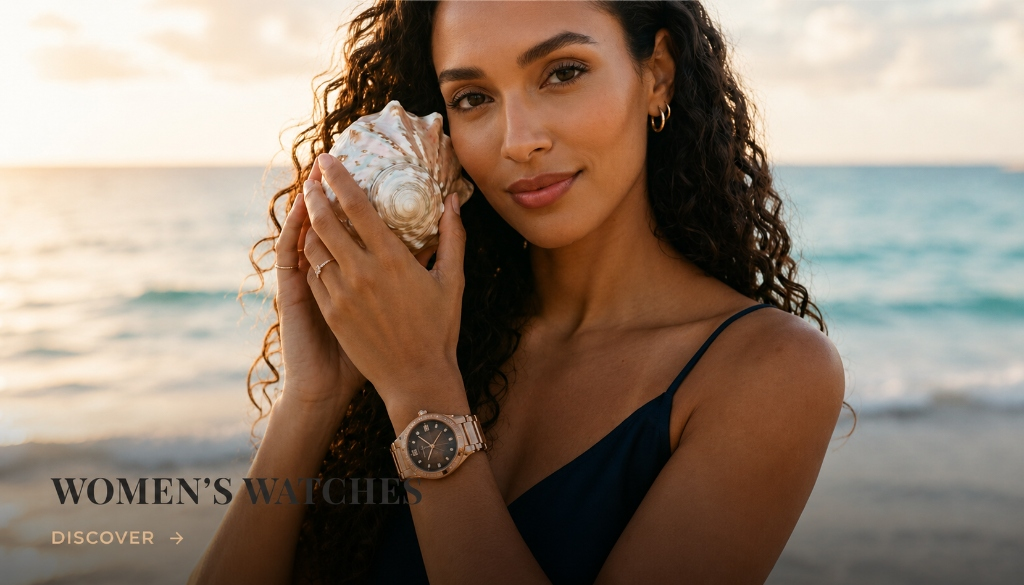
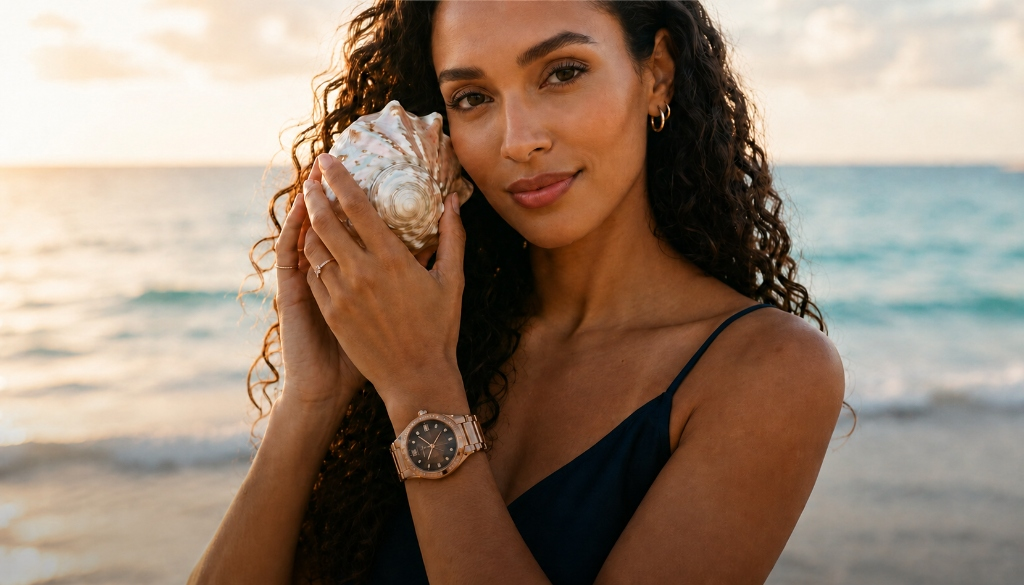
Updated homepage UI and styling

diff --git a/src/pages/Home.jsx b/src/pages/Home.jsx
@@ -113,53 +113,61 @@ export default function Home({ onPageChange }) {
         </div>
       </section>
 
-      {/* Men & Women Category Split Banner (Full width edge-to-edge, half-half split, no spacing/borders) */}
-      <section className="grid grid-cols-1 md:grid-cols-2 gap-0 w-full overflow-hidden border-b border-white/5 mt-16">
-        {/* Women's Column */}
-        <div 
-          onClick={() => onPageChange('shop', { gender: 'women' })}
-          className="group relative h-[700px] flex flex-col justify-end p-8 sm:p-12 overflow-hidden cursor-pointer bg-luxury-gray"
-        >
-          <div className="absolute inset-0 z-0">
-            <div 
-              className="absolute inset-0 bg-cover bg-[position:center_12%] group-hover:scale-105 transition-transform duration-[2000ms]" 
-              style={{ backgroundImage: "url('/assets/women_watches.jpg')" }} 
-            />
-            <div className="absolute inset-0 bg-gradient-to-t from-white/70 via-white/10 to-transparent" />
-          </div>
-          
-          <div className="relative z-10 space-y-2 text-left">
-            <h3 className="font-serif text-3xl sm:text-4xl font-bold text-luxury-text tracking-wide uppercase">Women's watches</h3>
-            <button 
-              onClick={(e) => { e.stopPropagation(); onPageChange('shop', { gender: 'women' }); }}
-              className="text-luxury-text text-xs font-bold tracking-widest uppercase border-b-2 border-luxury-text pb-1 hover:text-luxury-gold hover:border-luxury-gold transition duration-300 w-fit inline-block"
-            >
-              Discover
-            </button>
-          </div>
+      {/* Men & Women Category Split Banner — Full-width, edge-to-edge, no spacing */}
+      <section className="w-full overflow-hidden">
+        {/* Section Header */}
+        <div className="text-center py-12 bg-white">
+          <p className="text-[10px] text-luxury-gold-dark font-bold tracking-widest uppercase mb-3">CURATED FOR YOU</p>
+          <h2 className="text-3xl sm:text-4xl font-serif font-bold text-luxury-text tracking-wide uppercase">Shop By Gender</h2>
+          <div className="w-10 h-[1px] bg-luxury-text/40 mx-auto mt-4" />
         </div>
 
-        {/* Men's Column */}
-        <div 
-          onClick={() => onPageChange('shop', { gender: 'men' })}
-          className="group relative h-[700px] flex flex-col justify-end p-8 sm:p-12 overflow-hidden cursor-pointer bg-luxury-gray"
-        >
-          <div className="absolute inset-0 z-0">
-            <div 
-              className="absolute inset-0 bg-cover bg-[position:center_12%] group-hover:scale-105 transition-transform duration-[2000ms]" 
-              style={{ backgroundImage: "url('/assets/men_watches.jpg')" }} 
+        {/* Split Image Panels — zero gap, edge-to-edge */}
+        <div className="grid grid-cols-1 md:grid-cols-2">
+          {/* Men's Column */}
+          <div
+            onClick={() => onPageChange('shop', { gender: 'men' })}
+            className="dark-panel group relative h-[580px] overflow-hidden cursor-pointer"
+          >
+            <div
+              className="absolute inset-0 bg-cover bg-center group-hover:scale-105 transition-transform duration-[2000ms]"
+              style={{ backgroundImage: "url('/assets/men_watches_beach.jpg')" }}
             />
-            <div className="absolute inset-0 bg-gradient-to-t from-white/70 via-white/10 to-transparent" />
+            <div className="absolute inset-0 bg-gradient-to-t from-black/65 via-black/10 to-transparent" />
+            <div className="absolute bottom-0 left-0 p-8 sm:p-12 space-y-3 z-10">
+              <h3 className="font-serif text-3xl sm:text-4xl font-bold text-white tracking-wide uppercase drop-shadow-md">
+                Men's Watches
+              </h3>
+              <button
+                onClick={(e) => { e.stopPropagation(); onPageChange('shop', { gender: 'men' }); }}
+                className="flex items-center gap-2 text-white text-xs font-bold tracking-widest uppercase border-b border-white/60 pb-1 hover:border-white hover:gap-3 transition-all duration-300 w-fit"
+              >
+                Discover <ArrowRight size={12} />
+              </button>
+            </div>
           </div>
-          
-          <div className="relative z-10 space-y-2 text-left">
-            <h3 className="font-serif text-3xl sm:text-4xl font-bold text-luxury-text tracking-wide uppercase">Men's watches</h3>
-            <button 
-              onClick={(e) => { e.stopPropagation(); onPageChange('shop', { gender: 'men' }); }}
-              className="text-luxury-text text-xs font-bold tracking-widest uppercase border-b-2 border-luxury-text pb-1 hover:text-luxury-gold hover:border-luxury-gold transition duration-300 w-fit inline-block"
-            >
-              Discover
-            </button>
+
+          {/* Women's Column */}
+          <div
+            onClick={() => onPageChange('shop', { gender: 'women' })}
+            className="dark-panel group relative h-[580px] overflow-hidden cursor-pointer"
+          >
+            <div
+              className="absolute inset-0 bg-cover bg-center group-hover:scale-105 transition-transform duration-[2000ms]"
+              style={{ backgroundImage: "url('/assets/women_watches_beach.jpg')" }}
+            />
+            <div className="absolute inset-0 bg-gradient-to-t from-black/65 via-black/10 to-transparent" />
+            <div className="absolute bottom-0 left-0 p-8 sm:p-12 space-y-3 z-10">
+              <h3 className="font-serif text-3xl sm:text-4xl font-bold text-white tracking-wide uppercase drop-shadow-md">
+                Women's Watches
+              </h3>
+              <button
+                onClick={(e) => { e.stopPropagation(); onPageChange('shop', { gender: 'women' }); }}
+                className="flex items-center gap-2 text-white text-xs font-bold tracking-widest uppercase border-b border-white/60 pb-1 hover:border-white hover:gap-3 transition-all duration-300 w-fit"
+              >
+                Discover <ArrowRight size={12} />
+              </button>
+            </div>
           </div>
         </div>
       </section>
@@ -204,7 +212,7 @@ export default function Home({ onPageChange }) {
                 </button>
               </div>
             </div>
-          </div>
+          ))}
         </div>
       </section>
 

diff --git a/src/index.css b/src/index.css
@@ -116,19 +116,19 @@ html {
    ========================================================================== */
 
 /* Overrides for text-white and text-gray classes to adapt them to light layouts */
-.text-white:not(button *, .bg-luxury-red *, .bg-red-700 *, .bg-red-800 *, .bg-\[\#1c1a17\] *, footer *, .bg-gradient-to-r *, .text-emerald-400 *, .font-mono *) {
+.text-white:not(button *, .bg-luxury-red *, .bg-red-700 *, .bg-red-800 *, .bg-\[\#1c1a17\] *, footer *, .bg-gradient-to-r *, .text-emerald-400 *, .font-mono *, .dark-panel *) {
   color: var(--color-luxury-text) !important;
 }
 
-.text-gray-300:not(footer *, .bg-\[\#1c1a17\] *, button *, .bg-luxury-red *, .bg-red-700 *, .bg-red-800 *, .bg-black\/30 *, .bg-black\/35 *, .bg-gradient-to-r *) {
+.text-gray-300:not(footer *, .bg-\[\#1c1a17\] *, button *, .bg-luxury-red *, .bg-red-700 *, .bg-red-800 *, .bg-black\/30 *, .bg-black\/35 *, .bg-gradient-to-r *, .dark-panel *) {
   color: var(--color-luxury-muted) !important;
 }
 
-.text-gray-400:not(footer *, .bg-\[\#1c1a17\] *, button *, .bg-luxury-red *, .bg-red-700 *, .bg-red-800 *, .bg-black\/30 *, .bg-black\/35 *, .absolute.top-3.left-3 *, .bg-gradient-to-r *) {
+.text-gray-400:not(footer *, .bg-\[\#1c1a17\] *, button *, .bg-luxury-red *, .bg-red-700 *, .bg-red-800 *, .bg-black\/30 *, .bg-black\/35 *, .absolute.top-3.left-3 *, .bg-gradient-to-r *, .dark-panel *) {
   color: var(--color-luxury-muted) !important;
 }
 
-.text-gray-500:not(footer *, .bg-\[\#1c1a17\] *, button *, .bg-luxury-red *, .bg-red-700 *, .bg-red-800 *) {
+.text-gray-500:not(footer *, .bg-\[\#1c1a17\] *, button *, .bg-luxury-red *, .bg-red-700 *, .bg-red-800 *, .dark-panel *) {
   color: rgba(32, 30, 27, 0.6) !important;
 }
 